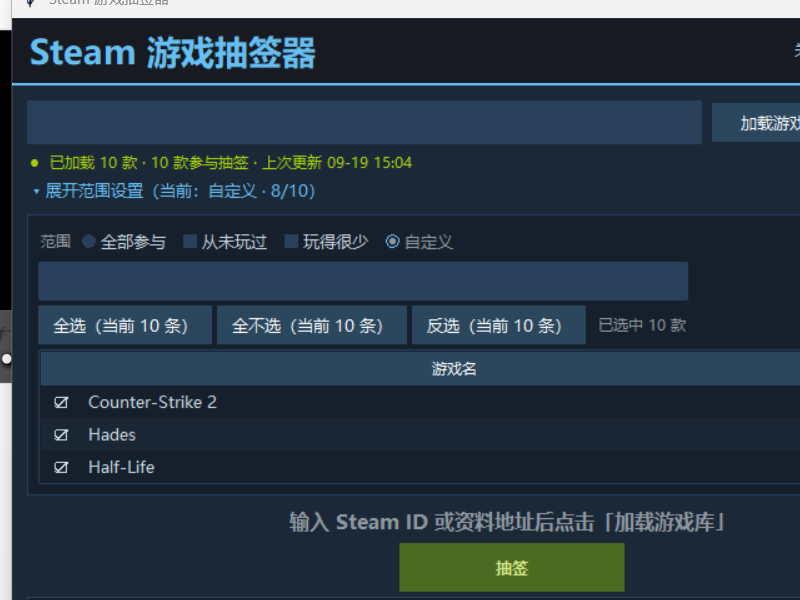
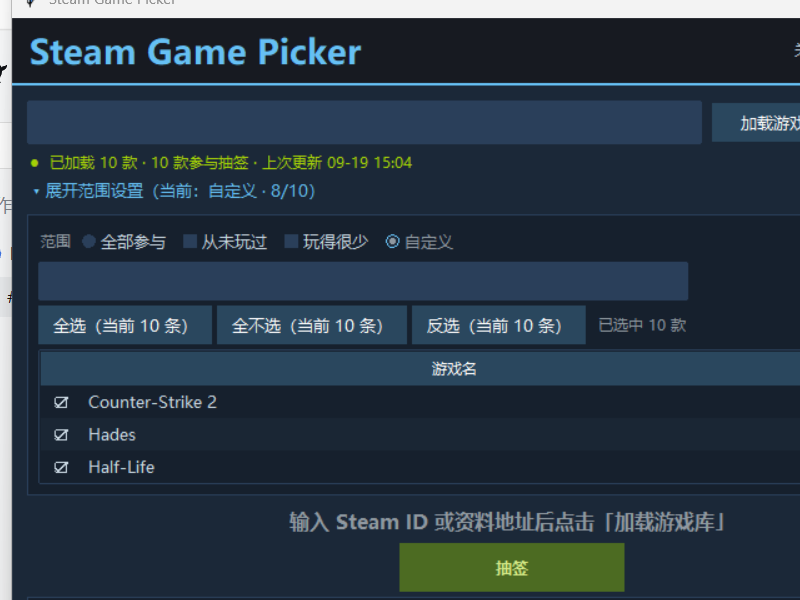
变更：应用更名为 Steam Game Picker
- APP_NAME、窗口标题、关于窗、安装包 AppName/AppPublisher 改为 Steam Game Picker
- 配置目录与可执行文件名（SteamGamePicker）保持不变：现有用户的配置与缓存
  无需迁移；升级安装时旧快捷方式由卸载程序自动替换
- 文档标题、PRD 界面示意图与两张界面截图同步更新
- CHANGELOG 记录改名（保留旧名以便对照）

Changed region(s): [[0.0, 0.03, 0.0312, 0.66], [0.1875, 0.06, 0.4688, 0.12], [0.125, 0.0, 0.2188, 0.03]]

diff --git a/main.py b/main.py
@@ -1,4 +1,4 @@
-"""Steam 游戏抽签器入口。
+"""Steam Game Picker 入口。
 
 职责：初始化目录与日志 → 读取配置 → 组装主窗口与后台执行器 →
 首次运行弹引导 / 否则从缓存秒开并后台刷新。
@@ -137,7 +137,7 @@ def selftest(report_path: Path | None, *, live: bool = False) -> int:
 
 
 def main(argv: list[str] | None = None) -> int:
-    parser = argparse.ArgumentParser(prog=APP_NAME, description="Steam 游戏抽签器")
+    parser = argparse.ArgumentParser(prog=APP_NAME, description="从 Steam 游戏库中随机抽一款游戏")
     parser.add_argument("--selftest", action="store_true", help="自检并退出（打包验证用）")
     parser.add_argument("--report", type=Path, default=None, help="自检报告输出路径")
     parser.add_argument("--live", action="store_true", help="自检时额外真实请求一次 Steam")

diff --git a/app/__init__.py b/app/__init__.py
@@ -1,8 +1,10 @@
-"""Steam 游戏抽签器（Steam Game Picker）."""
+"""Steam Game Picker：从 Steam 游戏库里随机抽一款游戏（Windows 桌面端）。"""
 
 from __future__ import annotations
 
-APP_NAME = "Steam 游戏抽签器"
+#: 应用显示名（窗口标题、关于窗、安装包与快捷方式都用它）
+APP_NAME = "Steam Game Picker"
+#: 纯 ASCII 名称：用于目录名与可执行文件名，改名时保持不变
 APP_NAME_EN = "SteamGamePicker"
 APP_VERSION = "1.0.0"
 

diff --git a/docs/ACCEPTANCE.md b/docs/ACCEPTANCE.md
@@ -1,4 +1,4 @@
-# Steam 游戏抽签器 · v1.0.0 验收记录
+# Steam Game Picker · v1.0.0 验收记录
 
 | 项目 | 内容 |
 | :--- | :--- |
@@ -104,7 +104,7 @@
 | 编号 | 结果 | 证据 |
 | :--- | :--- | :--- |
 | AC-40 非管理员安装 | ✅ | **实测**：以受限令牌（`runas /trustlevel:0x20000`）安装成功，`install_exit=0`，安装到 `%LOCALAPPDATA%\Programs\SteamGamePicker`，安装后 exe 自检 `exit=0`，卸载 `exit=0` |
-| AC-41 快捷方式 | ✅ | **实测**：桌面快捷方式存在；开始菜单目录 `…\Start Menu\Programs\Steam 游戏抽签器\` 内含 `Steam 游戏抽签器.lnk` 与 `卸载 Steam 游戏抽签器.lnk` |
+| AC-41 快捷方式 | ✅ | **实测**（v1.0.0 安装包）：桌面快捷方式存在，开始菜单目录内含应用与卸载两个快捷方式。**注**：应用已更名为 Steam Game Picker（见 CHANGELOG「未发布」），快捷方式与卸载项名称随之变化，需在下一次打包安装后复核 |
 | AC-42 卸载保留配置 | ✅ | **实测**：静默卸载后安装目录已删除、`%APPDATA%\SteamGamePicker` 保留；交互式卸载会弹"是否同时删除配置与缓存"（默认"否"） |
 | AC-43 干净 Win10 + Win11 | ⏸ | 本机（Win11 10.0.26300）安装→运行→卸载全流程通过；**干净 Win10 机器待补测** |
 

diff --git a/docs/PRD.md b/docs/PRD.md
@@ -1,4 +1,4 @@
-# Steam 游戏抽签器 产品需求文档（PRD）
+# Steam Game Picker 产品需求文档（PRD）
 
 | 项目 | 内容 |
 | :--- | :--- |
@@ -130,7 +130,7 @@ W5 随 W1 常驻，不单独弹出。W6 仅按需弹出。
 
 ```
 ┌─ W1 主窗口 800×600 ────────────────────────────────────────────┐
-│ 区0 顶栏    Steam 游戏抽签器                    [关于] [设置]   │  高 36
+│ 区0 顶栏    Steam Game Picker                  [关于] [设置]   │  高 36
 ├────────────────────────────────────────────────────────────────┤
 │ 区1 身份    [ Steam ID 或资料地址            ] [加载游戏库] [刷新]│  高 40
 │     状态行  ● 已加载 128 款 · 96 款参与抽签 · 上次更新 09-19 15:04│  高 22

diff --git a/CHANGELOG.md b/CHANGELOG.md
@@ -7,6 +7,13 @@
 
 ## [未发布]
 
+### 变更
+
+- 应用名称由「Steam 游戏抽签器」改为 **Steam Game Picker**
+  （窗口标题、关于窗、安装包名称、开始菜单与桌面快捷方式随之变化）。
+  **配置目录与可执行文件名仍为 `SteamGamePicker`**，因此现有用户的配置、缓存与
+  `%APPDATA%` 数据**无需迁移**，升级安装后旧的快捷方式会被卸载程序自动替换
+
 ### 修复
 
 - 缓存时间显示改为按**当前本地时区**换算（此前直接使用写入时的偏移，

diff --git a/README.md b/README.md
@@ -1,4 +1,4 @@
-# Steam 游戏抽签器（Steam Game Picker）
+# Steam Game Picker
 
 [![tests](https://github.com/collinszheng/SteamGamePicker/actions/workflows/tests.yml/badge.svg)](https://github.com/collinszheng/SteamGamePicker/actions/workflows/tests.yml)
 [![license: MIT](https://img.shields.io/badge/license-MIT-blue.svg)](LICENSE)

diff --git a/docs/DEV_PLAN.md b/docs/DEV_PLAN.md
@@ -1,4 +1,4 @@
-# Steam 游戏抽签器 开发计划（DEV PLAN）
+# Steam Game Picker 开发计划（DEV PLAN）
 
 | 项目 | 内容 |
 | :--- | :--- |
